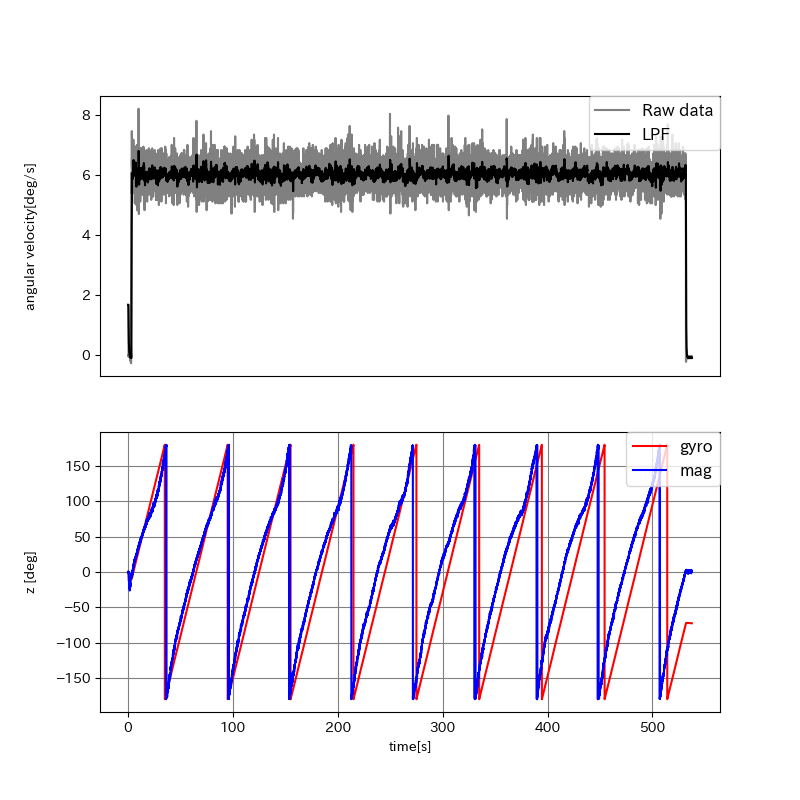
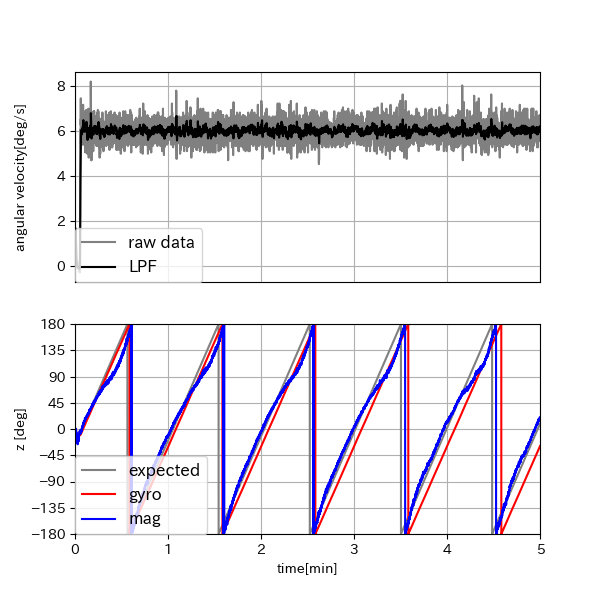
change graph

diff --git a/ExperimentalData/graph_rad.py b/ExperimentalData/graph_rad.py
@@ -33,7 +33,7 @@ class item(IntEnum):
 # データの読み込み
 filename = "turnTable2"
 data = np.loadtxt("data/" + filename + ".txt", delimiter = ",", skiprows = 2, unpack = True) 
-fig1 = plt.figure(figsize=(8, 8))
+fig1 = plt.figure(figsize=(6, 6))
 
 # ローパスフィルタ
 gyro_z_LPF = [ data[item.rad_vel_z][0] ]
@@ -48,25 +48,28 @@ gyro_z_LPF_deg = list(map(lambda x: x * 180/np.pi, gyro_z_LPF))
 graph = fig1.add_subplot(211) 
 # graph.plot(data[time],data[rad_vel_x] * 180/np.pi, color="red", label = "x")
 # graph.plot(data[time],data[rad_vel_y] * 180/np.pi, color="blue", label = "y")
-graph.plot(data[item.time], data[item.rad_vel_z]*180/np.pi, color="gray", label = "Raw data")
+graph.plot(data[item.time]/60, data[item.rad_vel_z]*180/np.pi, color="gray", label = "raw data")
 # graph.plot(data[item.time], gyro_z_LPF, color="black", label = "z")
-graph.plot(data[item.time], gyro_z_LPF_deg, color="black", label = "LPF")
+graph.plot(data[item.time]/60, gyro_z_LPF_deg, color="black", label = "LPF")
 plt.tick_params(labelbottom=False, bottom=False)
 graph.set_ylabel("angular velocity[deg/s]")
 graph.yaxis.set_label_coords(-0.1, 0.5)
-plt.legend(bbox_to_anchor=(1, 1), loc="upper right", borderaxespad=0, fontsize=12)
-# plt.xlim(0,60)
+plt.legend(bbox_to_anchor=(0, 0), loc="lower left", borderaxespad=0, fontsize=12)
+plt.xlim(0,5)
 # plt.ylim(-0.13,0.13)
+plt.grid()
 
 graph = fig1.add_subplot(212)
-graph.plot(data[item.time], data[item.rad_gyro_z]*180/np.pi, color="red", label = "gyro")
-graph.plot(data[item.time], data[item.rad_mag_z]*180/np.pi, color="blue", label = "mag")
-# graph.plot(data[item.time], (data[item.time]+25)*6.12%360-180, color="gray", label = "expected")
-plt.grid(color="gray")
-plt.legend(bbox_to_anchor=(1, 1), loc="upper right", borderaxespad=0, fontsize=12)
-# plt.xlim(x,x+100)
-# plt.ylim(80,130)
+graph.plot(data[item.time]/60, (data[item.time]+25)*6.12%360-180, color="gray", label = "expected")
+graph.plot(data[item.time]/60, data[item.rad_gyro_z]*180/np.pi, color="red", label = "gyro")
+graph.plot(data[item.time]/60, data[item.rad_mag_z]*180/np.pi, color="blue", label = "mag")
+plt.legend(bbox_to_anchor=(0, 0), loc="lower left", borderaxespad=0, fontsize=12)
+plt.xlim(0,5)
+plt.ylim(-180,180)
+graph.set_yticks(np.linspace(-180, 180, 9))
+plt.grid()
 graph.set_ylabel("z [deg]")
+graph.set_xlabel("time[min]")
 graph.yaxis.set_label_coords(-0.1, 0.5)
-graph.set_xlabel("time[s]")
+
 plt.savefig("graph/rad/" + filename + ".png")
